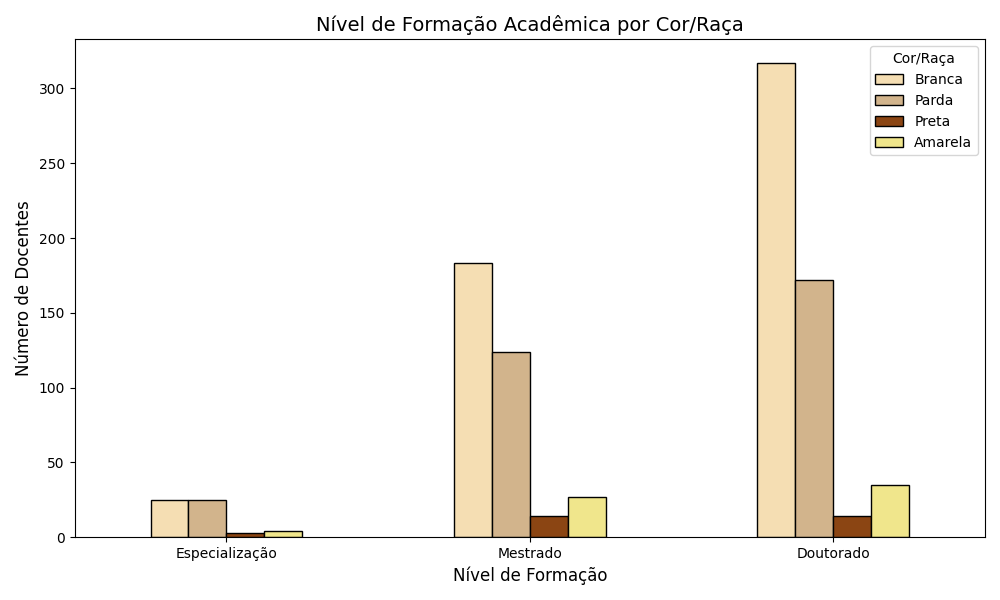
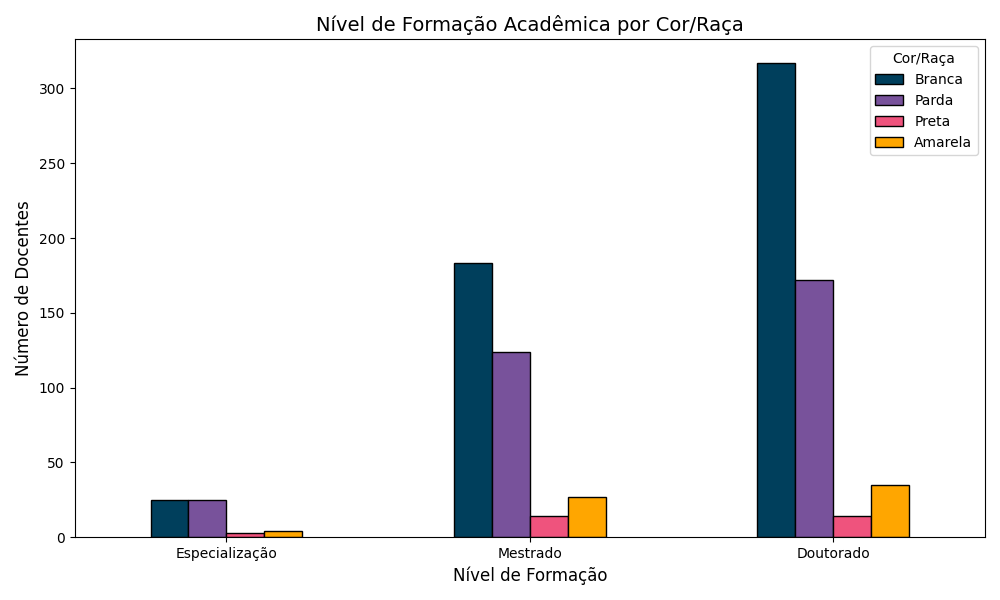
Correção das cores dos gráficos

diff --git a/analise_dados.py b/analise_dados.py
@@ -191,7 +191,7 @@ class AnaliseDadosTCC:
         if self.df.empty:
             self.carregar_dados()
             
-        cores_raca = ['#F5DEB3', '#D2B48C', '#8B4513', '#F0E68C'] # Cores temáticas por categoria
+        cores_raca = ['#003f5c', '#78529b', '#ef537d', '#ffa600'] # Cores temáticas por categoria
 
         # 1. Gráfico: Distribuição por IF
         tab_if = pd.crosstab(self.df["instituto"], self.df["raca"]).reindex(columns=self.CATEGORIAS_RACA, fill_value=0)
@@ -376,5 +376,5 @@ class AnaliseDadosTCC:
 if __name__ == "__main__":
     analise = AnaliseDadosTCC()
     #analise.executar_todas()
-    #analise.gerar_graficos_analises()
-    analise.analisar_cobertura_completa()
+    analise.gerar_graficos_analises()
+    #analise.analisar_cobertura_completa()
